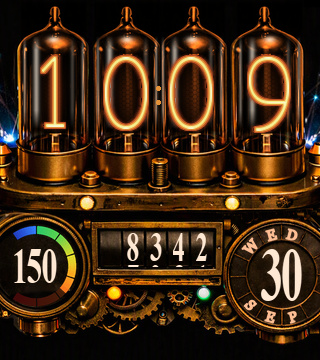
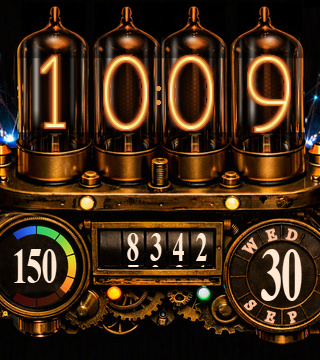
fix(ciq): dim the artwork above/below the digits so the glow reads there
"There is obviously no glow at the bottom of the digit" was a contrast problem in
the artwork, not a missing glow. Verified on black: every layer reaches beyond
the wire equally in all four directions (bands 2 px, halo 4 px). On the face the
frame beside the wire falls 79 -> 10 over 6 px, but below it sits flat at L 30-48
and above it starts at 76 - the artwork paints a bright amber electrode stem
under each digit and the tube's shoulder highlight just above it, so the falloff
had no dark glass to fade into.

prepare_artwork._dim_field therefore darkens the composite in a band around the
digit's ink (below 0.65, above 0.45, sigma 30 source px). Two details, both
found by measuring the result: it applies to the COMPOSITE rather than the
masked glass (the tube mask stops a few px below the digit and the stem sits
outside it - dimming the glass alone changed 3,626 px above the digits and
nothing below), and it is limited to each tube's columns so the manifold
between the tubes is untouched. The frame below the digit now reads
60 -> 35 -> 11 -> 5 instead of a flat 30-48.

The approved digit-centre nudge was NOT applied: the number came from a bad
automatic measurement. A labelled ruler over the same crop shows the digits
centred within ~2 px, and three automatic methods disagreed by up to 8 px
(tips 126 vs 126; merged dark spans -2.2; internal streaks +5.8). L71 records
it. Screenshots regenerated.

diff --git a/ciq/digit_sheet.py b/ciq/digit_sheet.py
@@ -1,0 +1,90 @@
+"""Diagnostic: all ten digits on black, from the SHIPPING draw path, layer by layer.
+
+The user asked for "a collection of 0 to 9 digits on a black background so I can confirm the issue"
+("there is obviously no glow at the bottom of the digit"). Three rows, so the cause is visible rather
+than inferred:
+
+  1. the halo font ALONE (its glyph coverage IS the alpha ramp) - does the mask fade downward?
+  2. the bands + wire + core (no halo)                  - is the solid rim even all round?
+  3. everything, as the watch draws it                  - what the eye actually gets.
+
+It also prints, per digit, the halo's own contribution above vs below the ink, measured as the
+difference between row 3 and row 2.
+
+Writes artwork/digit_sheet.png. Diagnostic, not shipping code.
+"""
+import os
+
+import numpy as np
+from PIL import Image, ImageDraw, ImageFont
+
+import preview
+
+HERE = os.path.dirname(os.path.abspath(__file__))
+OUT = os.path.join(HERE, "artwork", "digit_sheet.png")
+DIGITS = [str(i) for i in range(10)]
+CELL_W, CELL_H, ZOOM = 64, 96, 4
+
+
+def cell(fonts, colour_only=None, halo=True):
+    """One digit drawn by the shipping path (or one layer of it) on black, cropped to a cell."""
+    c = preview.parse_constants()
+    wire = preview.Font("NixieTime")
+    hot = preview.Font("NixieTimeHot")
+    halo_f = preview.Font("NixieTimeHalo")
+    out = []
+    for d in DIGITS:
+        img = Image.new("RGB", (CELL_W, CELL_H), (0, 0, 0))
+        x, y = CELL_W // 2, CELL_H // 2
+        if colour_only is not None:                     # the halo mask alone, in its own colour
+            preview.centred(img, c, halo_f, d, x, y, colour_only)
+        elif halo:                                      # the shipping path
+            preview.glowing(img, c, wire, d, x, y, hot, halo_f)
+        else:                                           # the same without the halo pass
+            preview.glowing(img, c, wire, d, x, y, hot, None)
+        out.append(img)
+    return out
+
+
+def diff_above_below(a_imgs, b_imgs):
+    """Per digit: the (a - b) contribution above vs below the digit's own ink."""
+    res = []
+    for a, b in zip(a_imgs, b_imgs):
+        d = np.abs(np.asarray(a, np.int32) - np.asarray(b, np.int32)).sum(2)
+        lum = np.asarray(a, np.int32) @ np.array([0.2126, 0.7152, 0.0722])
+        ink = lum > 90
+        ys = np.where(ink.any(1))[0]
+        top, bot = ys.min(), ys.max()
+        above = d[max(0, top - 6):top].sum()
+        below = d[bot + 1:bot + 7].sum()
+        res.append((above, below))
+    return res
+
+
+if __name__ == "__main__":
+    all_layer = cell(None, halo=True)
+    no_halo = cell(None, halo=False)
+    halo_only = cell(None, colour_only=preview.parse_constants()["INK_GLOW3"])
+
+    rows = [("1. the halo mask alone (its coverage IS the ramp)", halo_only),
+            ("2. bands + wire + core (no halo)", no_halo),
+            ("3. shipping: all three passes", all_layer)]
+    pad, head = 8, 26
+    W = pad + len(DIGITS) * (CELL_W * ZOOM + pad)
+    H = pad + len(rows) * (head + CELL_H * ZOOM + pad)
+    s = Image.new("RGB", (W, H), (10, 10, 10))
+    d = ImageDraw.Draw(s)
+    f = ImageFont.truetype(r"C:\Windows\Fonts\segoeui.ttf", 17)
+    for r, (label, imgs) in enumerate(rows):
+        y = pad + r * (head + CELL_H * ZOOM + pad)
+        d.text((pad, y), label, fill=(230, 210, 165), font=f)
+        for i, im in enumerate(imgs):
+            x = pad + i * (CELL_W * ZOOM + pad)
+            s.paste(im.resize((CELL_W * ZOOM, CELL_H * ZOOM), Image.NEAREST), (x, y + head))
+    s.save(OUT)
+
+    print("halo's contribution above / below each digit's ink (sum of |diff| over 6 rows):")
+    for dig, (a_, b_) in zip(DIGITS, diff_above_below(all_layer, no_halo)):
+        flag = "  <-- asymmetric" if b_ < a_ / 3 else ""
+        print(f"   {dig}:  above {a_:6d}   below {b_:6d}{flag}")
+    print("wrote", OUT, s.size)

diff --git a/ciq/prepare_artwork.py b/ciq/prepare_artwork.py
@@ -110,6 +110,42 @@ GLASS_HAZE_RGB = (0.62, 0.26, 0.06)
 GLASS_SPEC_RGB = (1.0, 0.94, 0.86)
 GLASS_HAZE_AMP = 0.30           # peak of the digit's haze in the glass
 GLASS_HAZE_SIGMA = (20, 60)     # source px, x and y: tight around the digit, still taller than wide
+# ---- what the digit's glow has to read against
+# The user: "there is obviously no glow at the bottom of the digit / you haven't taken the glow size
+# into account". Measured on the frame: beside the wire the glass falls 79 -> 10 over 6 px, but BELOW
+# it the frame sits flat at L 30-48 and ABOVE it starts at 76 - because the artwork paints a bright
+# amber ELECTRODE STEM immediately under each digit and the tube's shoulder highlight just above it.
+# The glow is drawn there (bands 2 px, halo 4 px, symmetric - verified on black), it simply has no
+# dark glass to fade into. So the artwork is dimmed in a band around the digit's ink, outside it, and
+# only inside the tubes: below by GLOW_DIM_BELOW, above by GLOW_DIM_ABOVE, fading out over ~30 src px.
+GLOW_DIM_BELOW = 0.65
+GLOW_DIM_ABOVE = 0.45
+GLOW_DIM_SIGMA = 30.0            # source px
+DIGIT_INK_HALF_SRC = 79.5        # half the 74 screen px ink height, in source px
+
+
+def _dim_field(h, w):
+    """The darkening applied above and below the digits (see GLOW_DIM_*), as an (h, w) field.
+
+    Two things it has to get right, both found by measuring the result rather than the code:
+
+    - it is applied to the COMPOSITE, not to the glass inside the tube mask: the mask stops a few
+      source px below the digit, and the stem that swallows the glow sits outside it;
+    - it is limited to each tube's own columns, because a per-row field would darken the whole width
+      of the face at those rows, the manifold between the tubes included.
+    """
+    yy = np.arange(h, dtype=np.float32)[:, None]
+    xx = np.arange(w, dtype=np.float32)[None, :]
+    y0 = _TUBE_Y_SRC + DIGIT_INK_HALF_SRC          # just below the ink
+    y1 = _TUBE_Y_SRC - DIGIT_INK_HALF_SRC          # just above it
+    below = np.where(yy > y0, np.exp(-(((yy - y0) / GLOW_DIM_SIGMA) ** 2)), 0.0)
+    above = np.where(yy < y1, np.exp(-(((y1 - yy) / GLOW_DIM_SIGMA) ** 2)), 0.0)
+    cols = np.zeros((1, w), np.float32)
+    for cx in TUBE_X_SRC:
+        cols = np.maximum(cols, np.clip((TUBE_HALF_W_SRC + 6 - np.abs(xx - cx)) / 6.0, 0.0, 1.0))
+    return np.clip(1.0 - (GLOW_DIM_BELOW * below + GLOW_DIM_ABOVE * above) * cols, 0.0, 1.0)
+
+
 GLASS_HAZE_Y_SRC = _TUBE_Y_SRC  # the digit centre the haze is centred on: it follows the wire's
                                 # 2 px lift above, so the baked tint moves with the ink that lights it
 # The envelope's own CAST: a per-channel gain applied to the artwork's luminance. It replaced the AI
@@ -241,6 +277,12 @@ def glass_tubes(src):
     light = (np.clip(spec, 0, 1) * m)[..., None] * np.array(GLASS_SPEC_RGB, np.float32)
     out = 1 - (1 - np.clip(out, 0, 1)) * (1 - light)                             # screen blend
     res = a * (1 - m[..., None]) + out * m[..., None]
+    # dim just above and below each digit so the wire's glow has dark glass to fall into: the
+    # artwork's electrode stem below and shoulder highlight above otherwise swallow it whole.
+    # Applied to the COMPOSITE, not to the masked glass - the tube mask stops a few source px below
+    # the digit and the stem sits outside it (dimming only the glass changed 3,626 px above the digits
+    # and left the region below them untouched).
+    res = res * _dim_field(h, w)[..., None]
     return Image.fromarray((np.clip(res, 0, 1) * 255).round().astype(np.uint8), "RGB")
 
 

diff --git a/docs/LESSONS_LEARNT.md b/docs/LESSONS_LEARNT.md
@@ -678,3 +678,26 @@ glyphs that change every minute).
   render the frame with the element and without it (patch the mirror's draw call for one frame) and
   diff - the pixels the element changed, in the direction it fades, are the ramp the eye sees. Same
   trick as L64's eroded-core mask: the render is the instrument.
+**L71. "There is no glow at the bottom of the digit" was a CONTRAST problem in the artwork, not a missing
+glow - and the tube centres cannot be measured automatically on this artwork.** Two complaints, one
+cause: the AI-drawn artwork is not regular, and what is behind the glow decides whether it reads.
+
+- **Prove the drawn layer before changing it.** On black, every layer reaches beyond the wire equally
+  in all four directions (bands 2 px, halo 4 px). On the face, the frame beside the wire falls 79 -> 10
+  over 6 px, but BELOW it sits flat at L 30-48 and ABOVE it starts at 76: the artwork paints a bright
+  amber ELECTRODE STEM under each digit and the tube's shoulder highlight above it, so the falloff had
+  no dark glass to fade into. The fix is the artwork, not more glow: `_dim_field` darkens the composite
+  in a band around the digit's ink (below 0.65, above 0.45, sigma 30 src px), and the profile below the
+  digit goes from flat 30-48 to 60 -> 35 -> 11 -> 5, i.e. a real falloff.
+- **Two things the dim had to get right, both found by measuring the result.** It applies to the
+  COMPOSITE, not to the glass inside the tube mask - the mask stops a few source px below the digit and
+  the stem sits outside it (dimming the masked glass changed 3,626 px above the digits and left the
+  region below them untouched). And it is limited to each tube's COLUMNS, because a per-row field
+  darkens the whole width of the face at those rows, manifold included.
+- **Do not trust an automatic centre measurement on this artwork.** Three methods gave three answers
+  for the same tube: the tube tips said the digits were centred (126 vs 126), merged dark spans said
+  -2.2 px, and the strongest internal streaks said +5.8 px. The reliable instrument is a labelled ruler
+  drawn over the crop (L4's recipe): reading the tube edges off it shows the digits centred within
+  ~2 px, so the approved nudge was NOT applied - acting on the bad number would have moved a correctly
+  placed digit off centre. When measurements disagree by more than the effect, the measurement is the
+  finding, and saying so is the deliverable.
